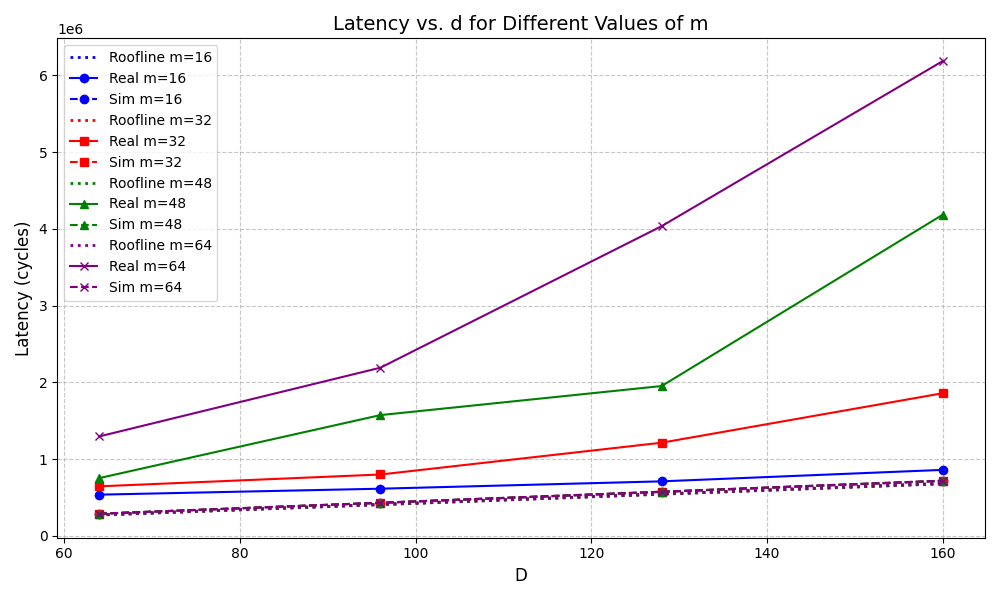
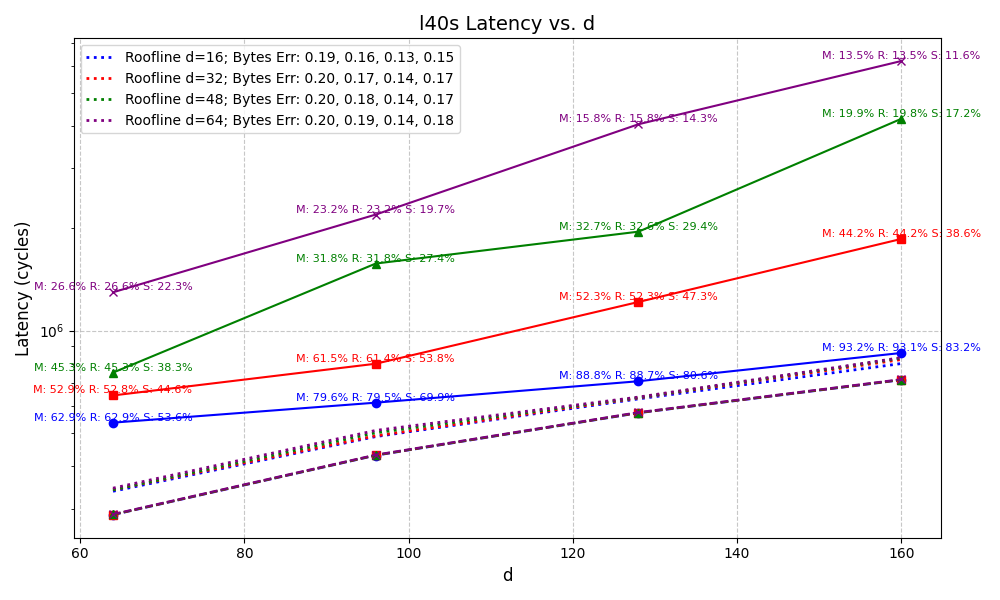
Add 0430 plots

diff --git a/kernels/test_04_15_09_58/plot_scripts/plot_16_steady_roofline.py b/kernels/test_04_15_09_58/plot_scripts/plot_16_steady_roofline.py
@@ -27,26 +27,61 @@ def load_and_process_file(filename):
     
     return last_line
 
-def calculate_roofline(last_line, bandwidth, mm_thpt, vec_thpt):
+def extract_total_bytes(df):
+    thpt_line = df[(df["Section Name"] == "Memory Workload Analysis") & (df["Metric Name"] ==  "Memory Throughput")]
+    thpt_unit = thpt_line["Metric Unit"].values[0]
+    thpt_value = float(thpt_line["Metric Value"].values[0])
+    if thpt_unit == "Gbyte/s":
+        thpt_value *= 1e9
+    elif thpt_unit == "Mbyte/s":
+        thpt_value *= 1e6
+    else:
+        raise ValueError(f"Unknown unit: {thpt_unit}")
+    
+    time_line = df[(df["Section Name"] == "GPU Speed Of Light Throughput") & (df["Metric Name"] ==  "Duration")]
+    time_unit = time_line["Metric Unit"].values[0]
+    time_value = float(time_line["Metric Value"].values[0])
+    if time_unit == "ms":
+        time_value *= 1e-3
+    elif time_unit == "us":
+        time_value *= 1e-6
+    elif time_unit == "ns":
+        time_value *= 1e-9
+    else:
+        raise ValueError(f"Unknown unit: {time_unit}")
+    
+    return thpt_value * time_value
+
+def calculate_roofline(last_line, base_dir, bandwidth, mm_thpt, vec_thpt):
+    profile_file = os.path.join(base_dir, f"short_{last_line['shape']}.csv")
+    df = pd.read_csv(profile_file)
     shape = [int(x) for x in last_line['shape'].split('x')]
+    total_bytes = extract_total_bytes(df)
     b, h, m, n, d = shape
-    total_bytes = b * h * (2 * m * d * 2 + 2 * n * d * 2)
+    minimal_bytes = b * h * (2 * m * d * 2 + 2 * n * d * 2)
     compute_latency = b * h * (2 * m * n * d * 2 / mm_thpt + (2 * m * 16 + m * d) * n / 16 / vec_thpt)
     memory_latency = total_bytes / bandwidth
-    return max(memory_latency, compute_latency)
+    rel_err = (total_bytes - minimal_bytes) / total_bytes
+    return max(memory_latency, compute_latency), rel_err
 
-def plot_latency_d(arch, output_file):
+def get_memory_utilization(last_line, base_dir):
+    profile_file = os.path.join(base_dir, f"short_{last_line['shape']}.csv")
+    df = pd.read_csv(profile_file)
+    thpt_line = df[(df["Section Name"] == "GPU Speed Of Light Throughput") & (df["Metric Name"] ==  "DRAM Throughput")]
+    return float(thpt_line["Metric Value"].values[0]) * 0.01
+
+def plot_latency(arch, output_file, mode):
     plt.figure(figsize=(12, 8))
 
     if arch == "a100":
         base_shape = "13x8"
         freq = 1.10 * 1e9
-        bandwidth = 1.5 * 1e12 / freq
+        bandwidth = 1.55 * 1e12 / freq
         mm_thpt = 312 * 1e12 / freq
         vec_thpt = 39 * 1e12 / freq
     elif arch == "l40s":
         base_shape = "17x8"
-        freq = 1.06 * 1e9
+        freq = 1.065 * 1e9
         bandwidth = 864 * 1e9 / freq
         mm_thpt = 362 * 1e12 / freq
         vec_thpt = 91.6 * 1e12 / freq
@@ -56,8 +91,14 @@ def plot_latency_d(arch, output_file):
     base_dir = f"/scratch/zgh23/ThunderKittens/kernels/test_04_15_09_58/profile_results_{arch}"
     
     # Define m and d values
-    m_values = [16, 32, 48, 64]
-    d_values = [64, 96, 128, 160]
+    if mode == "d":
+        out_values = [16, 32, 48, 64]
+        in_values = [64, 96, 128, 160]
+    elif mode == "m":
+        out_values = [64, 96, 128, 160]
+        in_values = [16, 32, 48, 64]
+    else:
+        raise ValueError("Invalid mode. Use 'd' for latency vs d or 'm' for latency vs m.")
     
     # Define colors and markers for different curves
     colors = ['blue', 'red', 'green', 'purple']
@@ -66,12 +107,24 @@ def plot_latency_d(arch, output_file):
     # Create plot for latency vs. d for each m
     plt.figure(figsize=(10, 6))
     last_lines = []
-    for i, m in enumerate(m_values):
+    for i, out_v in enumerate(out_values):
         real_latencies = []
         sim_latencies = []
         roofline_latencies = []
+        rel_errors = []
+        roofline_ratio = []
+        real_ratio = []
+        simulation_ratio = []
         
-        for d in d_values:
+        for in_v in in_values:
+            if mode == "d":
+                d = in_v
+                m = out_v
+            elif mode == "m":
+                d = out_v
+                m = in_v
+            else:
+                raise ValueError("Invalid mode. Use 'd' for latency vs d or 'm' for latency vs m.")
             filename = f"{base_dir}/output_{base_shape}x{m}x{d}.csv"
             run_last_line = load_and_process_file(filename)
             sim_file = filename.replace('output', 'simulated')
@@ -80,91 +133,32 @@ def plot_latency_d(arch, output_file):
             
             real_latencies.append(run_last_line['latency'])
             sim_latencies.append(sim_last_line['latency'])
-            roofline_latency = calculate_roofline(sim_last_line, bandwidth, mm_thpt, vec_thpt)
+            roofline_latency, rel_err = calculate_roofline(sim_last_line, base_dir, bandwidth, mm_thpt, vec_thpt)
             roofline_latencies.append(roofline_latency)
+            rel_errors.append(rel_err)
+            roofline_ratio.append(roofline_latency / real_latencies[-1])
+            real_ratio.append(get_memory_utilization(run_last_line, base_dir))
+            simulation_ratio.append(sim_latencies[-1] / real_latencies[-1])
         
-        plt.plot(d_values, roofline_latencies, color=colors[i], linestyle=':',
-                label=f'Roofline m={m}', linewidth=2)
+        bytes_error_str = ", ".join([f"{e:.2f}" for e in rel_errors])
+        plt.plot(in_values, roofline_latencies, color=colors[i], linestyle=':',
+                label=f'Roofline {mode}={out_v}; Bytes Err: {bytes_error_str}', linewidth=2)
         # Plot real data with solid lines (-)
-        plt.plot(d_values, real_latencies, color=colors[i], marker=markers[i], 
-                 linestyle='-', label=f'Real m={m}')
+        plt.plot(in_values, real_latencies, color=colors[i], marker=markers[i], 
+                 linestyle='-')
         
         # Plot simulated data with dashed lines (--)
-        plt.plot(d_values, sim_latencies, color=colors[i], marker=markers[i], 
-                 linestyle='--', label=f'Sim m={m}')
+        plt.plot(in_values, sim_latencies, color=colors[i], marker=markers[i], 
+                 linestyle='--')
 
+        for j in range(len(real_latencies)):
+            plt.text(in_values[j], real_latencies[j], f"M: {100 * real_ratio[j]:.1f}% R: {100 * roofline_ratio[j]:.1f}% S: {100 * simulation_ratio[j]:.1f}%", 
+                     fontsize=8, color=colors[i], ha='center', va='bottom')
 
-    
-    plt.xlabel('D', fontsize=12)
+    plt.yscale('log')
+    plt.xlabel(mode, fontsize=12)
     plt.ylabel('Latency (cycles)', fontsize=12)
-    plt.title('Latency vs. d for Different Values of m', fontsize=14)
-    plt.grid(True, linestyle='--', alpha=0.7)
-    plt.legend(loc='best')
-    
-    plt.tight_layout()
-    plt.savefig(output_file)
-    plt.close()
-
-def plot_latency_m(arch, output_file):
-    plt.figure(figsize=(12, 8))
-
-    if arch == "a100":
-        base_shape = "13x8"
-        freq = 1.10 * 1e9
-        bandwidth = 1.5 * 1e12 / freq
-        mm_thpt = 312 * 1e12 / freq
-        vec_thpt = 39 * 1e12 / freq
-    elif arch == "l40s":
-        base_shape = "17x8"
-        freq = 1.06 * 1e9
-        bandwidth = 864 * 1e9 / freq
-        mm_thpt = 362 * 1e12 / freq
-        vec_thpt = 91.6 * 1e12 / freq
-    else:
-        raise ValueError("Unsupported architecture. Use 'a100' or 'l40s'.") 
-    base_dir = f"/scratch/zgh23/ThunderKittens/kernels/test_04_15_09_58/profile_results_{arch}"
-    
-    # Define m and d values
-    m_values = [16, 32, 48, 64]
-    d_values = [64, 96, 128, 160]
-    
-    # Define colors and markers for different curves
-    colors = ['blue', 'red', 'green', 'purple']
-    markers = ['o', 's', '^', 'x']
-    
-    # Create plot for latency vs. d for each m
-    plt.figure(figsize=(10, 6))
-    
-    for i, d in enumerate(d_values):
-        real_latencies = []
-        sim_latencies = []
-        roofline_latencies = []
-        
-        for m in m_values:
-            filename = f"{base_dir}/output_{base_shape}x{m}x{d}.csv"
-            run_last_line = load_and_process_file(filename)
-            sim_file = filename.replace('output', 'simulated')
-            sim_last_line = load_and_process_file(sim_file)
-            
-            real_latencies.append(run_last_line['latency'])
-            sim_latencies.append(sim_last_line['latency'])
-            roofline_latency = calculate_roofline(sim_last_line, bandwidth, mm_thpt, vec_thpt)
-            roofline_latencies.append(roofline_latency)
-        
-        plt.plot(m_values, roofline_latencies, color=colors[i], linestyle=':',
-                label=f'Roofline d={d}', linewidth=2)
-            
-        # Plot real data with solid lines (-)
-        plt.plot(m_values, real_latencies, color=colors[i], marker=markers[i], 
-                 linestyle='-', label=f'Real d={d}')
-        
-        # Plot simulated data with dashed lines (--)
-        plt.plot(m_values, sim_latencies, color=colors[i], marker=markers[i], 
-                 linestyle='--', label=f'Sim d={d}')
-    
-    plt.xlabel('M', fontsize=12)
-    plt.ylabel('Latency (cycles)', fontsize=12)
-    plt.title('Latency vs. m for Different Values of d', fontsize=14)
+    plt.title(f'{arch} Latency vs. {mode}', fontsize=14)
     plt.grid(True, linestyle='--', alpha=0.7)
     plt.legend(loc='best')
     
@@ -180,11 +174,5 @@ if __name__ == "__main__":
     output_file = sys.argv[3]
     arch = sys.argv[2]
     mode = sys.argv[1]
-    if mode == "d":
-        plot_latency_d(arch, output_file)
-    elif mode == "m":
-        plot_latency_m(arch, output_file)
-    else:
-        print("Invalid mode. Use 'd' for latency vs d or 'm' for latency vs m.")
-        sys.exit(1)
+    plot_latency(arch, output_file, mode)
     print(f"Plot saved as {output_file}")

diff --git a/kernels/test_04_15_09_58/plot_scripts/plot_util.py b/kernels/test_04_15_09_58/plot_scripts/plot_util.py
@@ -1,12 +1,20 @@
-
 import sys
 import pandas as pd
 import matplotlib.pyplot as plt
 
-def plot_util(base_dir, b, h):
+def plot_util(base_dir, mode):
+    if mode == "a100":
+        b = 13
+        h = 8
+    elif mode == "l40s":
+        b = 17
+        h = 8
+    else:
+        raise ValueError("Unsupported architecture. Use 'a100' or 'l40s'.")
     l1_util_list = []
     l2_util_list = []
     dram_util_list = []
+    comp_util_list = []
     x_axis_list = []
     for m in [16, 32, 48, 64]:
         for d in [64, 96, 128, 160]:
@@ -16,34 +24,39 @@ def plot_util(base_dir, b, h):
                 l1_util_line = df[(df["Section Name"] == "GPU Speed Of Light Throughput") & (df["Metric Name"] ==  "L1/TEX Cache Throughput")]
                 l2_util_line = df[(df["Section Name"] == "GPU Speed Of Light Throughput") & (df["Metric Name"] ==  "L2 Cache Throughput")]
                 dram_util_line = df[(df["Section Name"] == "GPU Speed Of Light Throughput") & (df["Metric Name"] ==  "DRAM Throughput")]
+                comp_util_line = df[(df["Section Name"] == "GPU Speed Of Light Throughput") & (df["Metric Name"] ==  "Compute (SM) Throughput")]
                 l1_util = float(l1_util_line["Metric Value"].values[0]) * 0.01
                 l2_util = float(l2_util_line["Metric Value"].values[0]) * 0.01
                 dram_util = float(dram_util_line["Metric Value"].values[0]) * 0.01
+                comp_util = float(comp_util_line["Metric Value"].values[0]) * 0.01
                 l1_util_list.append(l1_util)
                 l2_util_list.append(l2_util)
                 dram_util_list.append(dram_util)
+                comp_util_list.append(comp_util)
                 x_axis_list.append(f"{m}x{n}x{d}")
     
     # Plotting
     plt.figure(figsize=(20, 8))
-    colors = ['blue', 'red', 'green']
+    colors = ['blue', 'red', 'green', 'purple']
+    markers = ['o', 's', '^', 'x']
     # Plot every 8 points
     for i in range(0, len(x_axis_list), 8):
         if i == 0:
-            labels = ['L1 Utilization', 'L2 Utilization', 'DRAM Utilization']
+            labels = ['L1 Utilization', 'L2 Utilization', 'DRAM Utilization', 'Compute Utilization']
         else:
-            labels = [None, None, None]
-        plt.plot(x_axis_list[i:i+8], l1_util_list[i:i+8], label=labels[0], marker='o', color=colors[0])
-        plt.plot(x_axis_list[i:i+8], l2_util_list[i:i+8], label=labels[1], marker='s', color=colors[1])
-        plt.plot(x_axis_list[i:i+8], dram_util_list[i:i+8], label=labels[2], marker='^', color=colors[2])
+            labels = [None, None, None, None]
+        plt.plot(x_axis_list[i:i+8], l1_util_list[i:i+8], label=labels[0], marker=markers[0], color=colors[0])
+        plt.plot(x_axis_list[i:i+8], l2_util_list[i:i+8], label=labels[1], marker=markers[1], color=colors[1])
+        plt.plot(x_axis_list[i:i+8], dram_util_list[i:i+8], label=labels[2], marker=markers[2], color=colors[2])
+        plt.plot(x_axis_list[i:i+8], comp_util_list[i:i+8], label=labels[3], marker=markers[3], color=colors[3])
     # Only legend once
     plt.xlabel('Shape (m x n x d)')
     plt.ylabel('Utilization (%)')
-    plt.title(f'Utilization vs Shape for {b}x{h}')
+    plt.title(f'Utilization vs Shape for {mode}')
     plt.xticks(rotation=90, fontsize=6)
     plt.legend()
     plt.tight_layout()
-    plt.savefig(f"{base_dir}/util_plot_{b}x{h}.png")
+    plt.savefig(f"{base_dir}/util_plot_{mode}.png")
 
 if __name__ == "__main__":
     if len(sys.argv) != 3:
@@ -51,12 +64,5 @@ if __name__ == "__main__":
         sys.exit(1)
     
     mode = sys.argv[2]
-    if mode == "a100":
-        b = 13
-        h = 8
-    elif mode == "l40s":
-        b = 17
-        h = 8
-    else:
-        raise ValueError("Unsupported architecture. Use 'a100' or 'l40s'.")
-    plot_util(sys.argv[1], b, h)
+
+    plot_util(sys.argv[1], mode)

diff --git a/kernels/test_04_15_09_58/README.md b/kernels/test_04_15_09_58/README.md
@@ -36,3 +36,5 @@ python plot_scripts/plot_16_steady.py d l40s profile_results_l40s/16_steady_d.pn
 python plot_scripts/plot_16_steady_fit.py d a100 profile_results_a100/16_fit_d.png
 
 python plot_scripts/plot_util.py profile_results_a100 a100
+
+python plot_scripts/plot_16_steady_roofline.py d a100 profile_results_a100/16_steady_d_roofline.png
